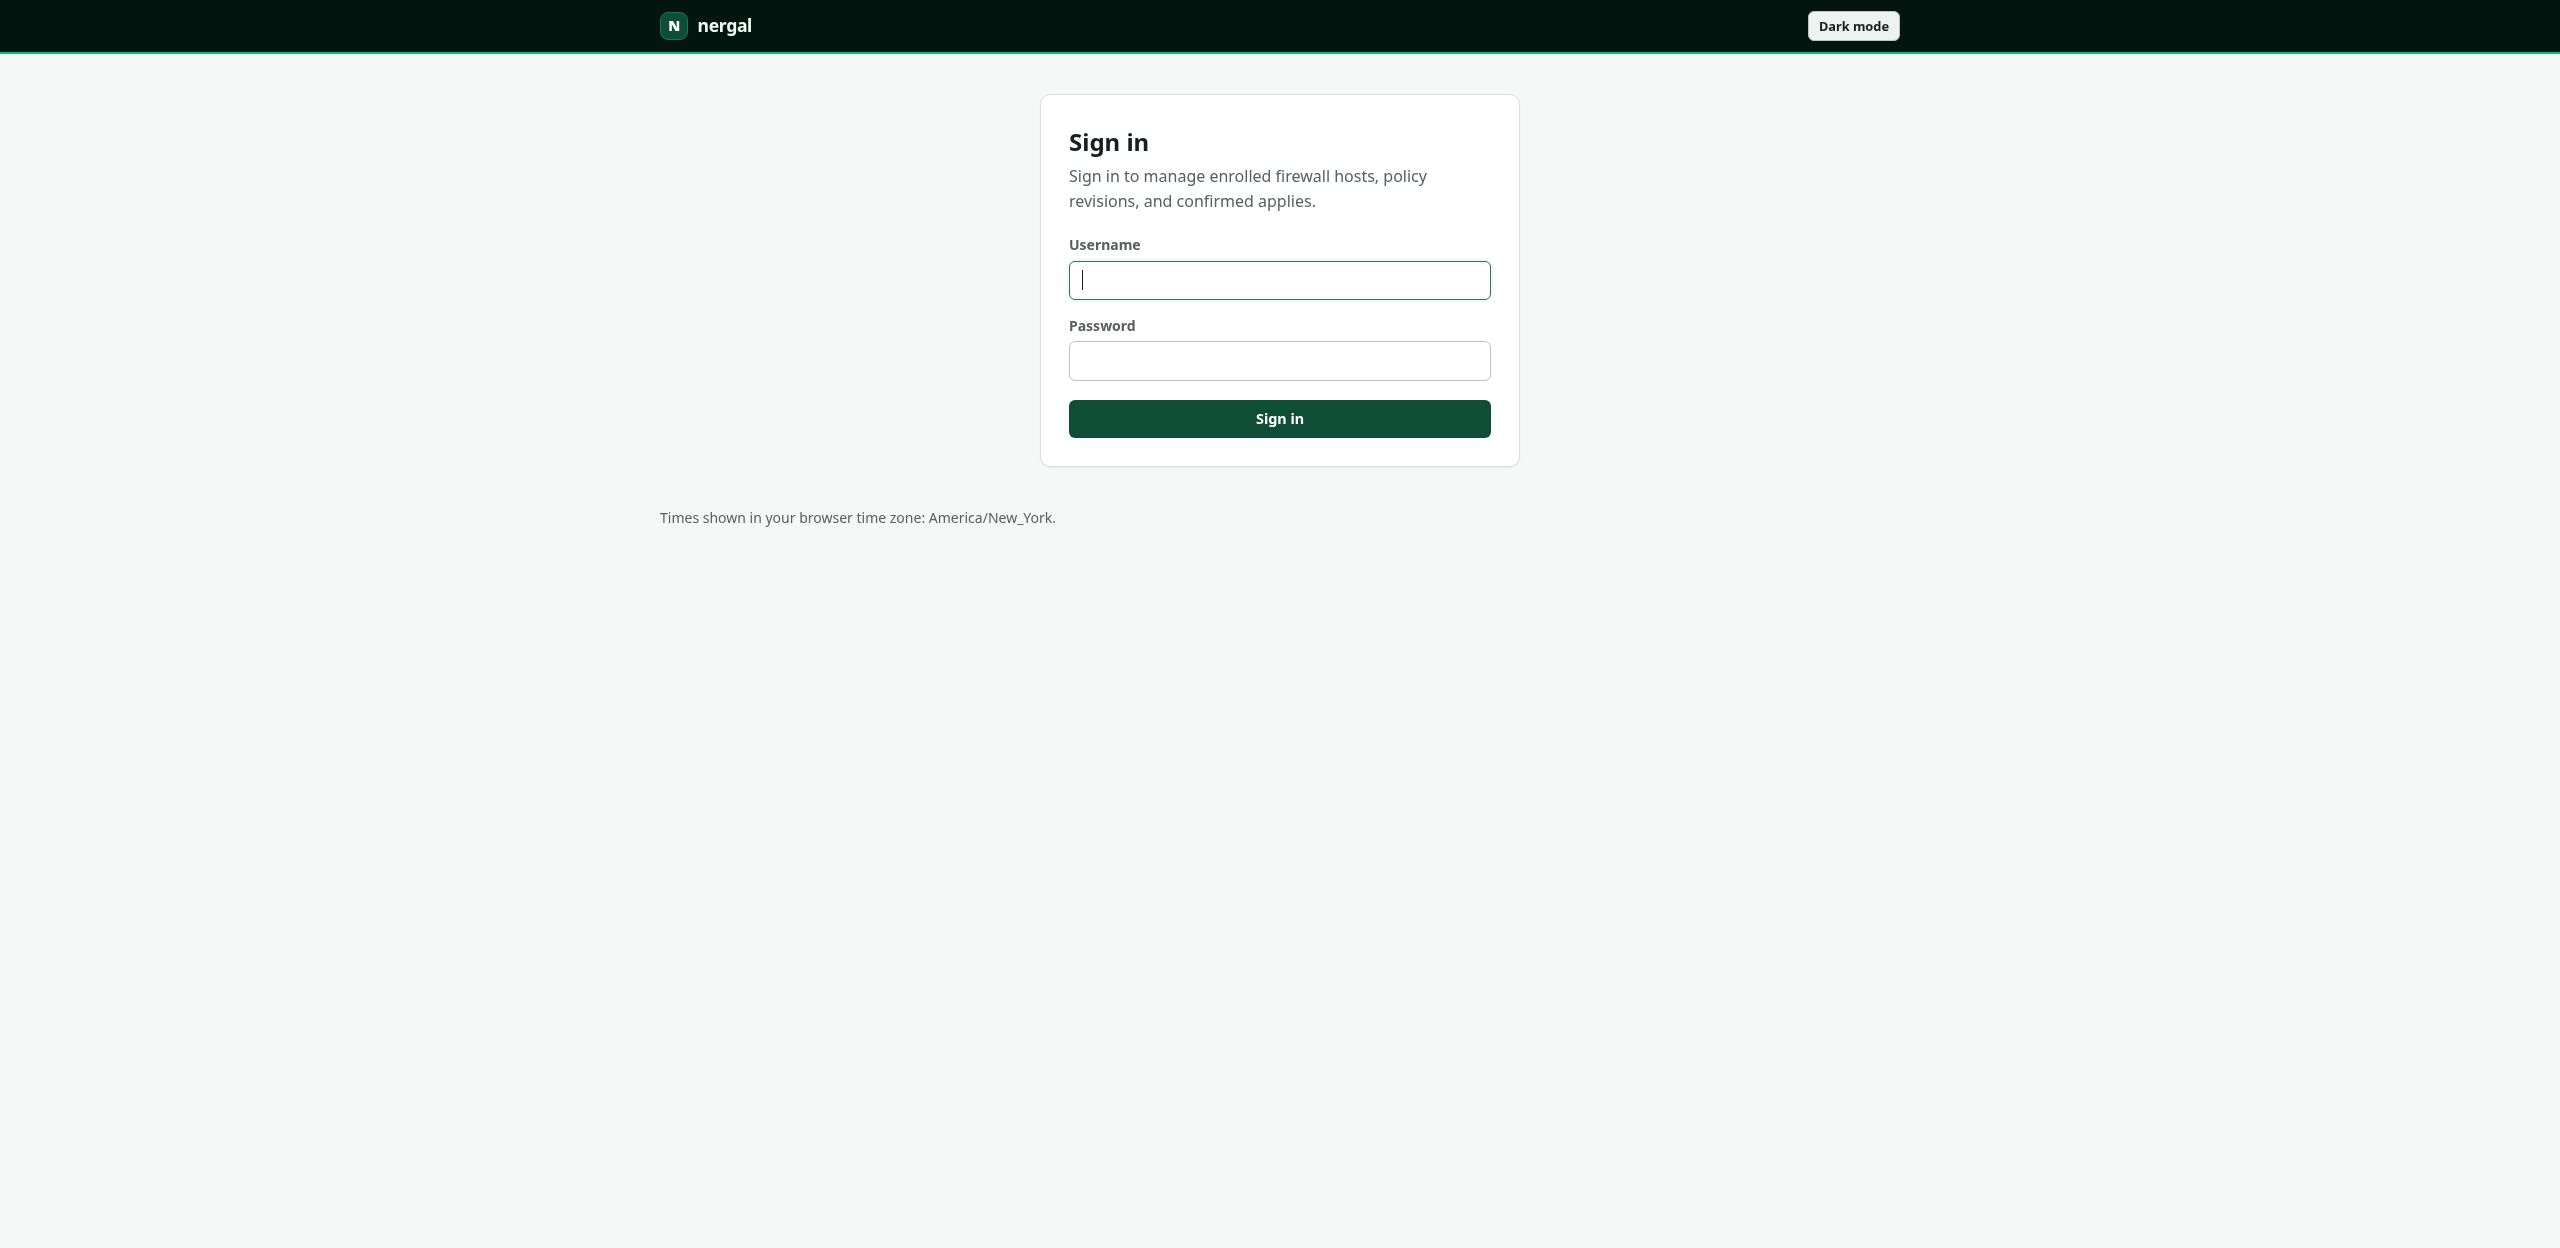
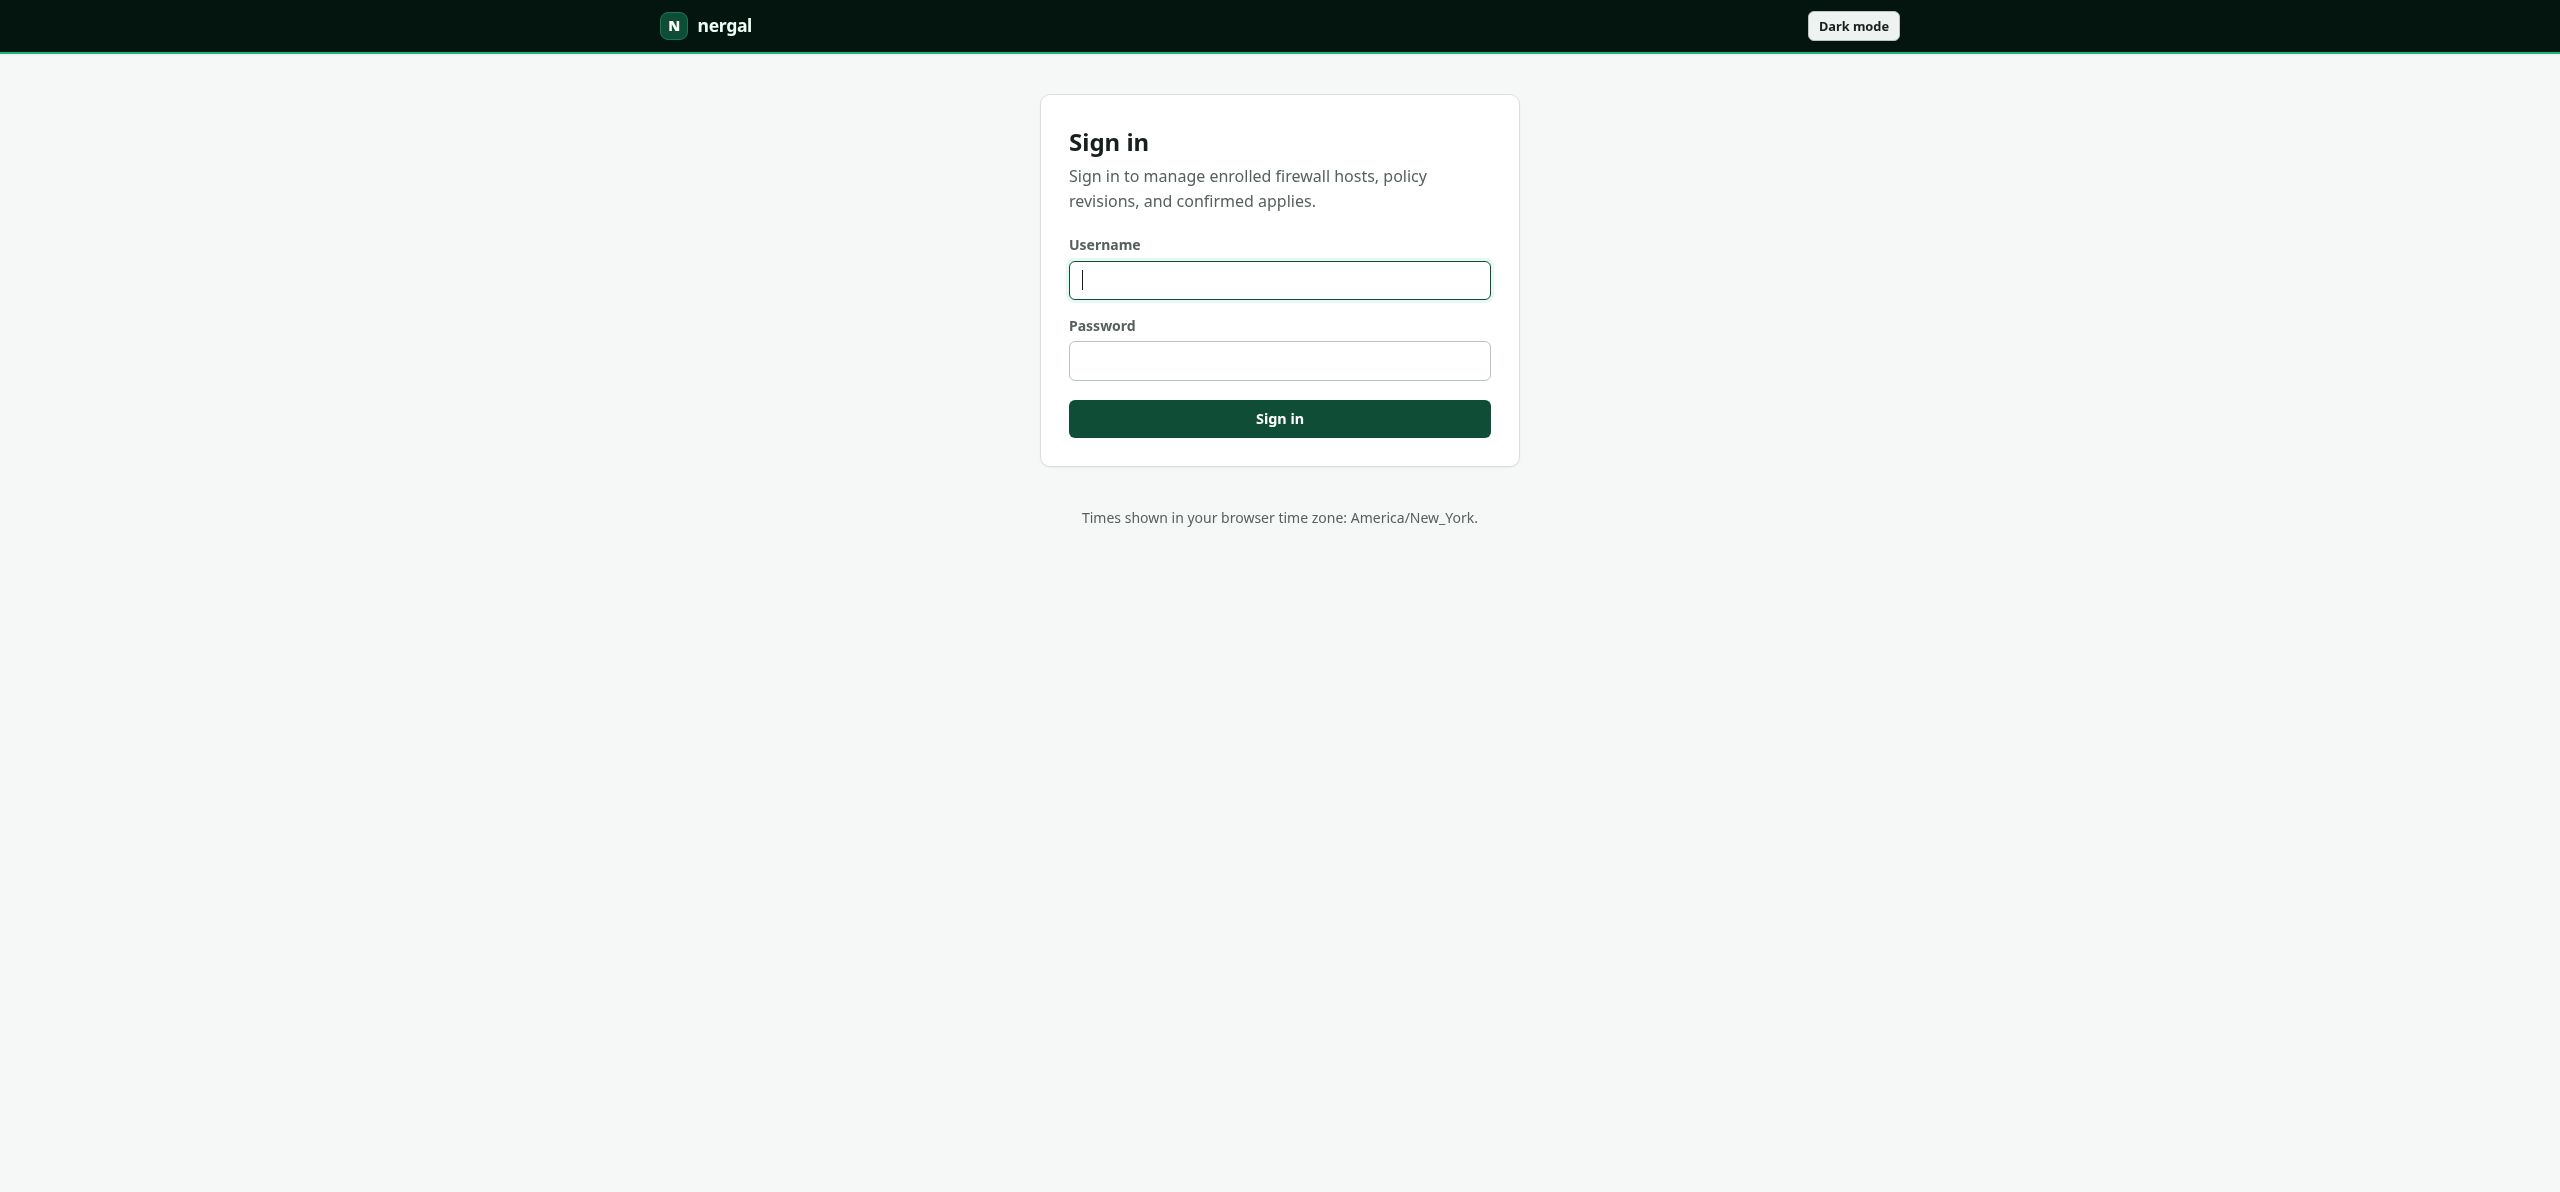
Center the footer on the sign-in screen

diff --git a/pages/assets/application.css b/pages/assets/application.css
@@ -819,6 +819,7 @@ input[type="file"]::file-selector-button {
 }
 
 .time-zone-note { max-width: 1280px; margin: 0 auto; padding: 0 1.25rem 1.25rem; font-size: .875rem; }
+.time-zone-note-centered { text-align: center; }
 
 /* List forms keep long entry guidance readable and aligned with its control. */
 .object-form-grid {

diff --git a/src/Nergal.Web/wwwroot/css/nergal.css b/src/Nergal.Web/wwwroot/css/nergal.css
@@ -819,6 +819,7 @@ input[type="file"]::file-selector-button {
 }
 
 .time-zone-note { max-width: 1280px; margin: 0 auto; padding: 0 1.25rem 1.25rem; font-size: .875rem; }
+.time-zone-note-centered { text-align: center; }
 
 /* List forms keep long entry guidance readable and aligned with its control. */
 .object-form-grid {
